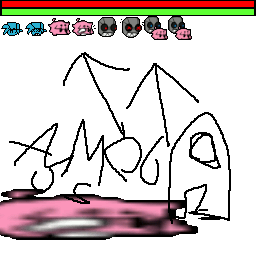
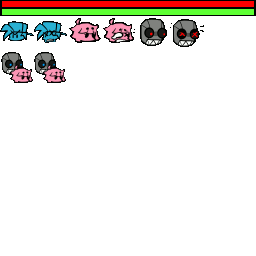
added dodge mechanic

diff --git a/src/stage.c b/src/stage.c
@@ -23,7 +23,7 @@
 #include "object/splash.h"
 
 //Stage constants
-//#define STAGE_PERFECT //Play all notes perfectly
+#define STAGE_PERFECT //Play all notes perfectly
 //#define STAGE_NOHUD //Disable the HUD
 
 //#define STAGE_FREECAM //Freecam
@@ -63,9 +63,11 @@ static const StageDef stage_defs[StageId_Max] = {
 //Stage state
 Stage stage;
 
-
-
-
+int saw = 0;
+int dodge = 0;
+int dodgecooldown = 0;
+int dodgemechanic = 0;
+int dodgething = 0; 
 
 //Stage music functions
 static void Stage_StartVocal(void)
@@ -623,20 +625,20 @@ static void Stage_DrawHealth(s16 health, u8 i, s8 ox)
 	//Check if we should use 'dying' frame
 	s8 dying;
 	if (ox < 0)
-		dying = (health >= 18000) * 24;
+		dying = (health >= 18000) * 34;
 	else
-		dying = (health <= 2000) * 24;
+		dying = (health <= 2000) * 34;
 	
 	//Get src and dst
 	fixed_t hx = (128 << FIXED_SHIFT) * (10000 - health) / 10000;
 	RECT src = {
-		(i % 5) * 48 + dying,
-		16 + (i / 5) * 24,
-		24,
-		24
+		(i % 3) * 68 + dying,
+		16 + (i / 3) * 34,
+		34,
+		34
 	};
 	RECT_FIXED dst = {
-		hx + ox * FIXED_DEC(11,1) - FIXED_DEC(12,1),
+		hx + ox * FIXED_DEC(16,1) - FIXED_DEC(12,1),
 		FIXED_DEC(SCREEN_HEIGHT2 - 32 + 4 - 12, 1),
 		src.w << FIXED_SHIFT,
 		src.h << FIXED_SHIFT
@@ -1110,11 +1112,15 @@ static void Stage_LoadState(void)
 	//Initialize stage state
 	stage.flag = STAGE_FLAG_VOCAL_ACTIVE;
 	stage.timercount = 0;
+	dodge = 0;
+	dodgecooldown = 0;
 	
 	stage.gf_speed = 1 << 2;
 	
 	stage.state = StageState_Play;
 	
+
+
 	stage.player_state[0].character = stage.player;
 	stage.player_state[1].character = stage.opponent;
 	for (int i = 0; i < 2; i++)
@@ -1401,14 +1407,50 @@ void Stage_Tick(void)
 	{
 		case StageState_Play:
 		{
+			if (dodgemechanic == 1) 
+			{
+				if (saw == 1) 
+				{
+				//todo: draw the saw and warning thing
+				if (dodgething != 1) 
+				{
+					stage.state = StageState_Dead;
+				} 
+					saw = 0;
+				}	
+
+				if (dodgething == 1) 
+				{
+					dodgecooldown++;
+
+				if (dodgecooldown == 20) 
+				{
+					dodgecooldown = 0;
+					dodgething = 0;
+				}
+				}
+
+			}
+
+			if (dodge == 1) {
+				saw = 1;
+				dodgemechanic = 1;
+				dodge = 0;
+			}
+
+
+			//dodge in termination
+			if (stage.stage_id == StageId_2_2)
+			switch (stage.timercount)
+			{
+			case 577:
+				dodge = 1;
+			}
+
 			//timer
               FntPrint("timercount %d ", stage.timercount);
               stage.timercount++;
-
-             //print timer text */
-
 			
-
 			//Clear per-frame flags
 			stage.flag &= ~(STAGE_FLAG_JUST_STEP | STAGE_FLAG_SCORE_REFRESH);
 			
@@ -1772,8 +1814,11 @@ void Stage_Tick(void)
 				Stage_DrawTex(&stage.tex_hud1, &health_back, &health_dst, stage.bump);
 			}
             
-			if (stage.stage_id == StageId_2_2 && (pad_state.press & (INPUT_L2)))
-			stage.player->set_anim(stage.player, PlayerAnim_Dodge);
+			if (stage.stage_id == StageId_2_2 && (pad_state.press & (INPUT_L2))){
+				stage.player->set_anim(stage.player, PlayerAnim_Dodge);
+				dodgething = 1;
+			}
+			
 			
 			//Hardcoded stage stuff
 			switch (stage.stage_id)

diff --git a/src/character/bf.c b/src/character/bf.c
@@ -126,10 +126,10 @@ static const CharFrame char_bf_frame[] = {
 	{BF_ArcDead_Dead2, {  0, 128, 128, 128}, { 53,  98}}, //33 dead2 balls twitch 0
 	{BF_ArcDead_Dead2, {128, 128, 128, 128}, { 53,  98}}, //34 dead2 balls twitch 1
 
-	{BF_ArcMain_Dodge, {  0,   0, 128, 124}, { 53,  98}}, 
-	{BF_ArcMain_Dodge, {128,   0, 128, 124}, { 53,  97}}, 
-	{BF_ArcMain_Dodge, {  0, 120, 128, 128}, { 53,  97}}, 
-	{BF_ArcMain_Dodge, {128, 120, 128, 128}, { 53,  97}}, 
+	{BF_ArcMain_Dodge, {  1,   3, 94,  101}, { 50,  91}}, 
+	{BF_ArcMain_Dodge, {131,   3, 93,  101}, { 50,  91}}, 
+	{BF_ArcMain_Dodge, {  0, 121, 95,  100}, { 51,  90}}, 
+	{BF_ArcMain_Dodge, {126, 122, 95,  100}, { 51,  90}}, 
 };
 
 static const Animation char_bf_anim[PlayerAnim_Max] = {

diff --git a/src/stage/week2.c b/src/stage/week2.c
@@ -564,7 +564,7 @@ void Back_Week2_DrawBG(StageBack *back)
 		}
 	}
 
-		//idle tv
+	//idle tv
 	
 	Week2_tv0l_Draw(this, FIXED_DEC(40,1) - fx, FIXED_DEC(37,1) - fy);
     
@@ -715,6 +715,12 @@ break;
 	Animatable_Animate(&this->tv0errleft_animatable, (void*)this, Week2_tv0l_SetFrame);
     
 	Animatable_Animate(&this->tv0errright_animatable, (void*)this, Week2_tv0_SetFrame);
+	}
+	else
+	{
+	 Animatable_Animate(&this->tv0left_animatable, (void*)this, Week2_tv0l_SetFrame);
+
+	 Animatable_Animate(&this->tv0right_animatable, (void*)this, Week2_tv0_SetFrame);
 	}
 
 

diff --git a/src/menu.c b/src/menu.c
@@ -800,7 +800,7 @@ void Menu_Tick(void)
 				{StageId_1_1, "CAREFREE"},
 				{StageId_1_2, "CARELESS"},
 				{StageId_1_3, "CENSORY OVERLOAD"},
-				{StageId_2_1, "terminate temp shid remove later pls"},
+				//{StageId_2_1, "terminate temp shid remove later pls"},
 				{StageId_2_2, "TERMINATION"},
 				{StageId_2_3, "CESSATION"},
 			};

diff --git a/src/stagedef_disc1.h b/src/stagedef_disc1.h
@@ -28,7 +28,7 @@
 		1, 2,
 		XA_Fresh, 2,
 		
-		StageId_1_3, STAGE_LOAD_OPPONENT
+		StageId_1_3, 0
 	},
 	{ //StageId_1_3 (Censory-Overload)
 		//Characters
